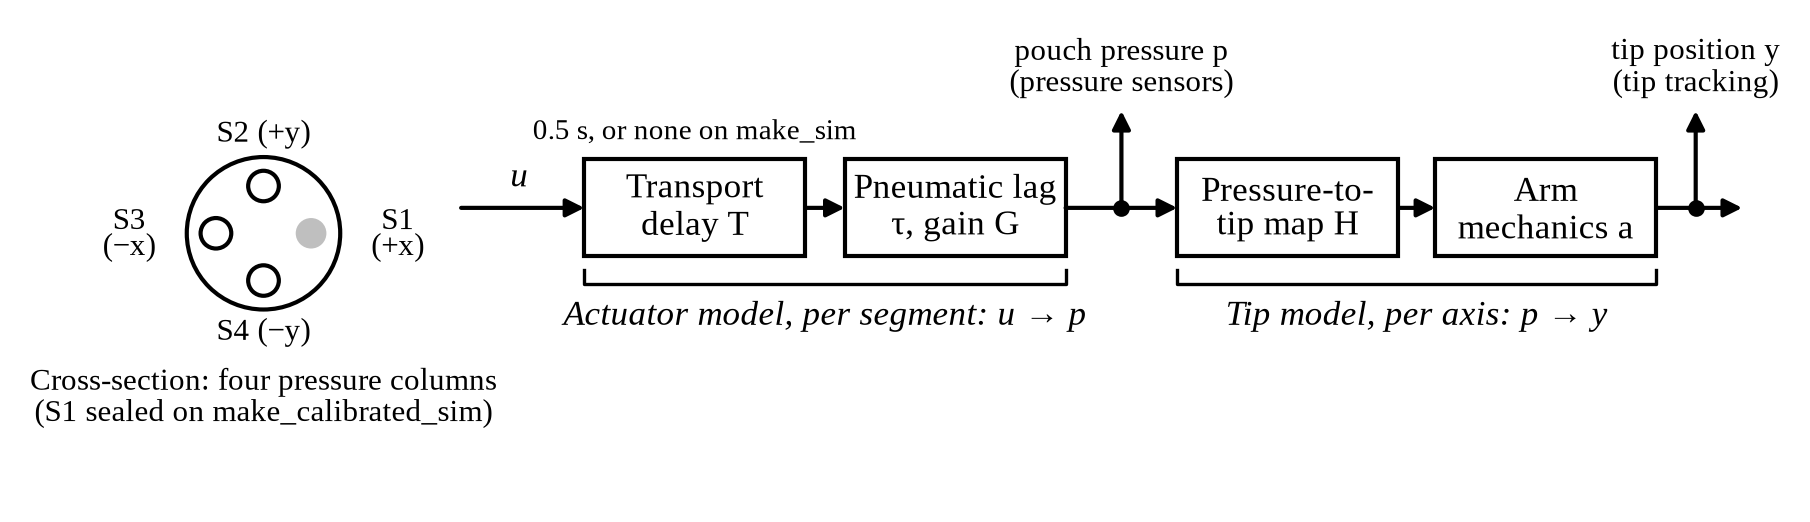
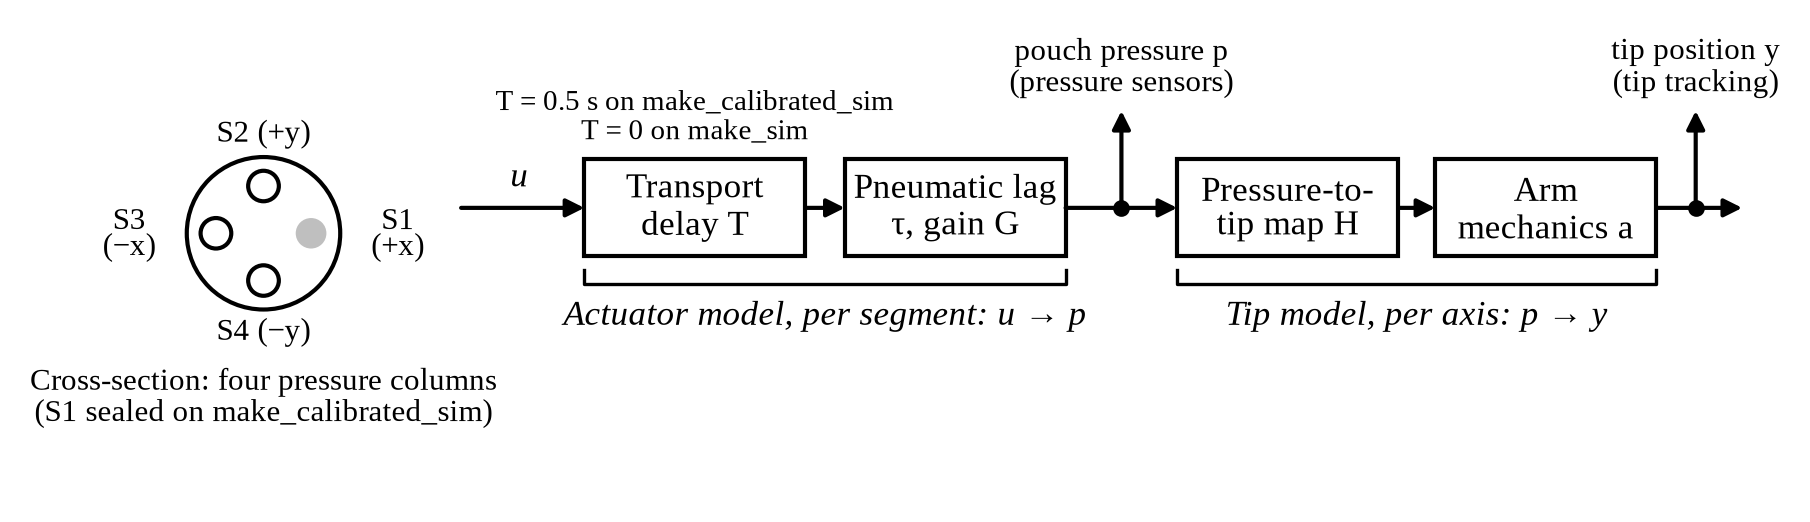
Model-structure figure: state the dead time per plant (0.5 s calibrated, 0 on make_sim)

Changed region(s): [[0.2785, 0.1839, 0.495, 0.2759]]

diff --git a/scripts/draw_model_structure.py b/scripts/draw_model_structure.py
@@ -88,7 +88,8 @@ def main() -> None:
 
     bracket(ax, xs[0], xs[1] + wb, yb - 0.12, "Actuator model, per segment: u → p")
     bracket(ax, xs[2], xs[3] + wb, yb - 0.12, "Tip model, per axis: p → y")
-    ax.text(xs[0] + wb / 2, yb + hb + 0.06, "0.5 s, or none on make_sim", ha="center", va="bottom", fontsize=7)
+    ax.text(xs[0] + wb / 2, yb + hb + 0.06, "T = 0.5 s on make_calibrated_sim\nT = 0 on make_sim", ha="center",
+            va="bottom", fontsize=7, linespacing=1.1)
 
     out = FIG / "model_structure.png"
     fig.savefig(out, dpi=300, bbox_inches="tight", facecolor="white")
